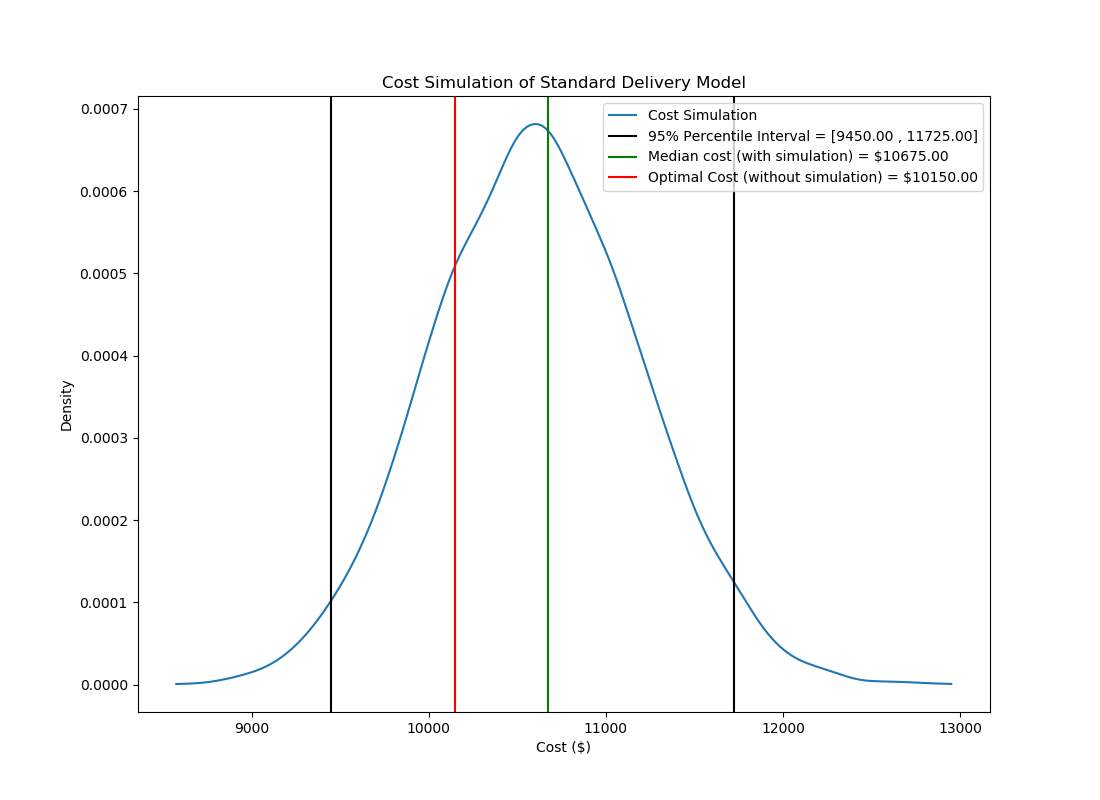
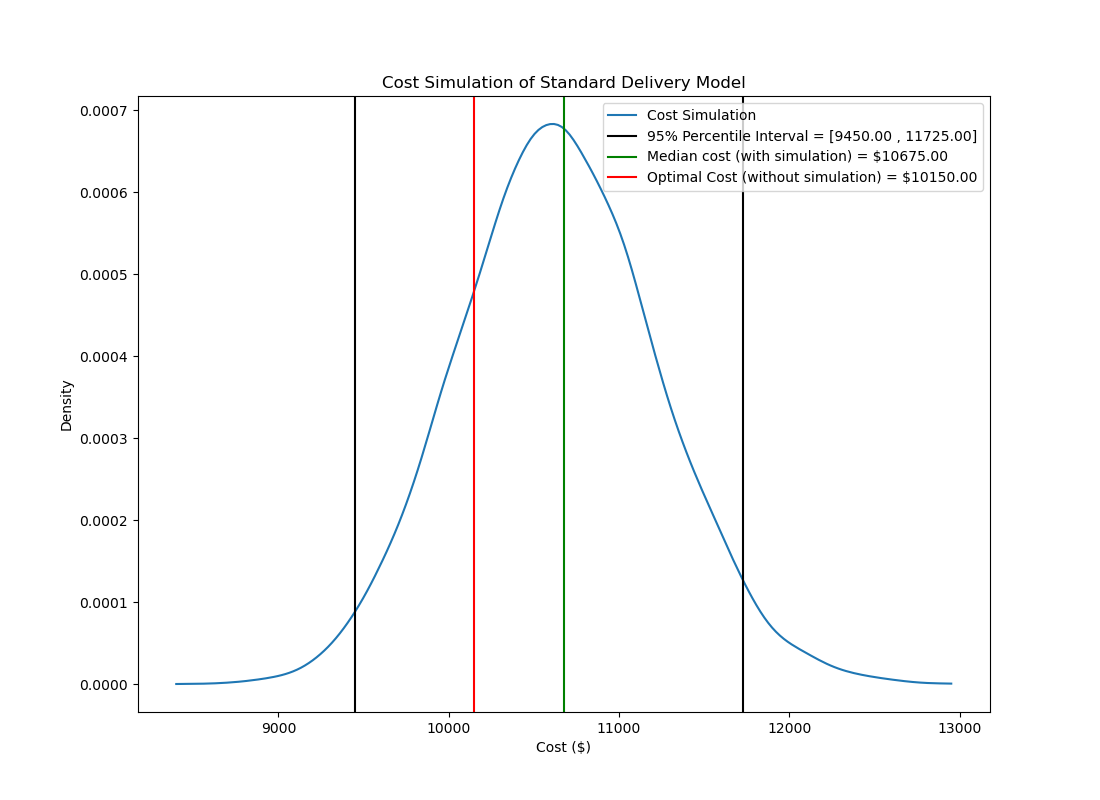
added individual std for stores

diff --git a/functions.py b/functions.py
@@ -447,6 +447,8 @@ def demand_calc(route,demand_data,simulate = None):
     demand: int
     Number of pallets required to fulfill the input route
     """
+
+
     #sets base demand to 0
     demand = 0
     for store in route:
@@ -454,9 +456,9 @@ def demand_calc(route,demand_data,simulate = None):
         if (store != 'Distribution North') & (store != 'Distribution South'):
             #sums demands
 
-            #For simulation, use estimated store demand & std(rn set to 2)
+            #For simulation, use estimated store demand & std
             if simulate:
-                simu_demand = round(np.random.normal(demand_data[store],2))
+                simu_demand = round(np.random.normal(demand_data[store],demand_data[Std_Dev]))
                 demand += simu_demand
             else: 
                 demand += demand_data[store]

diff --git a/Main.py b/Main.py
@@ -11,7 +11,7 @@ if __name__ == "__main__":
     #Load in data for warehouse locations and durations
     Locations = pd.read_csv('WarehouseLocations.csv')
     Durations = pd.read_csv('WarehouseDurations.csv')
-    Demands = pd.read_csv('dmnd_avgs (1).csv')
+    Demands = pd.read_csv('dmnd_avgs_std_dev.csv')
 
     #Generate demand estimates for each node 
     demand_data = generate_demand_estimate(Locations,Demands)
